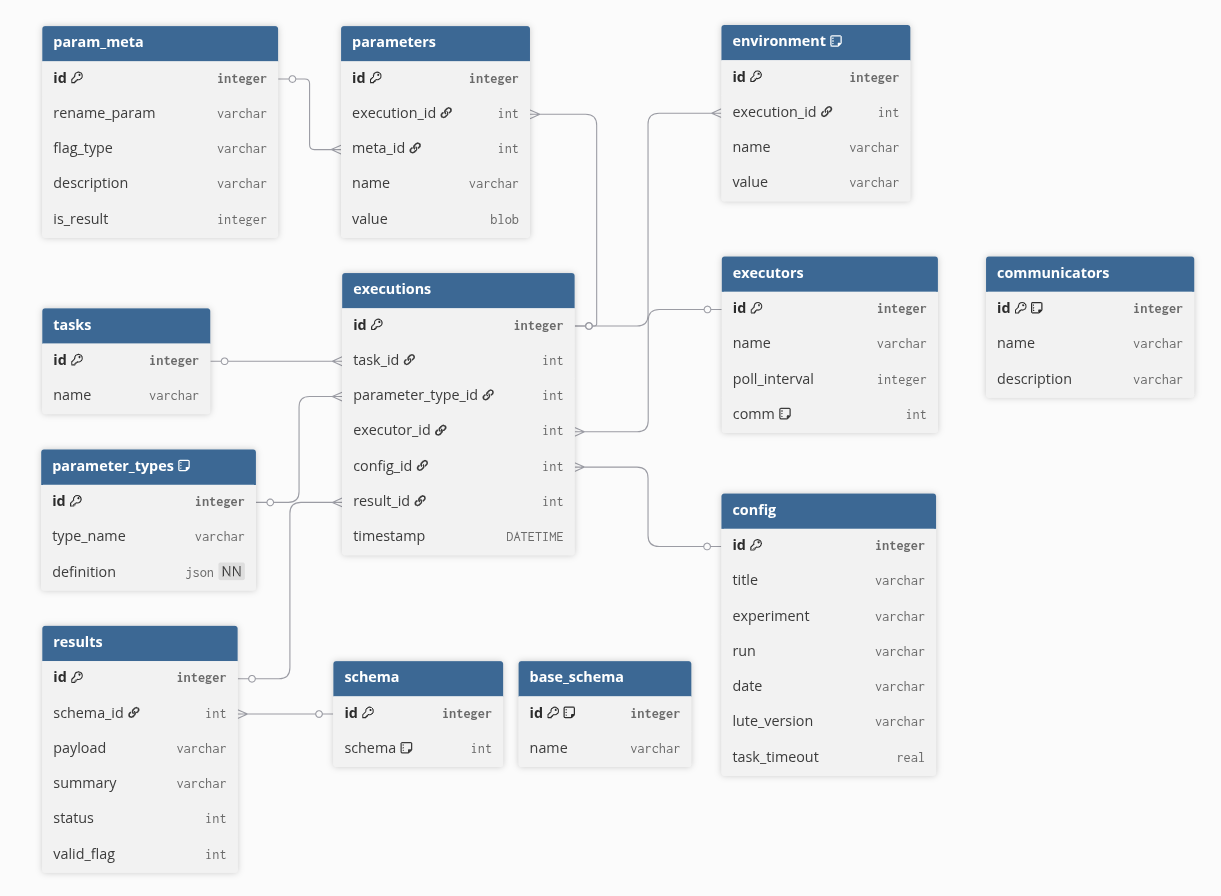
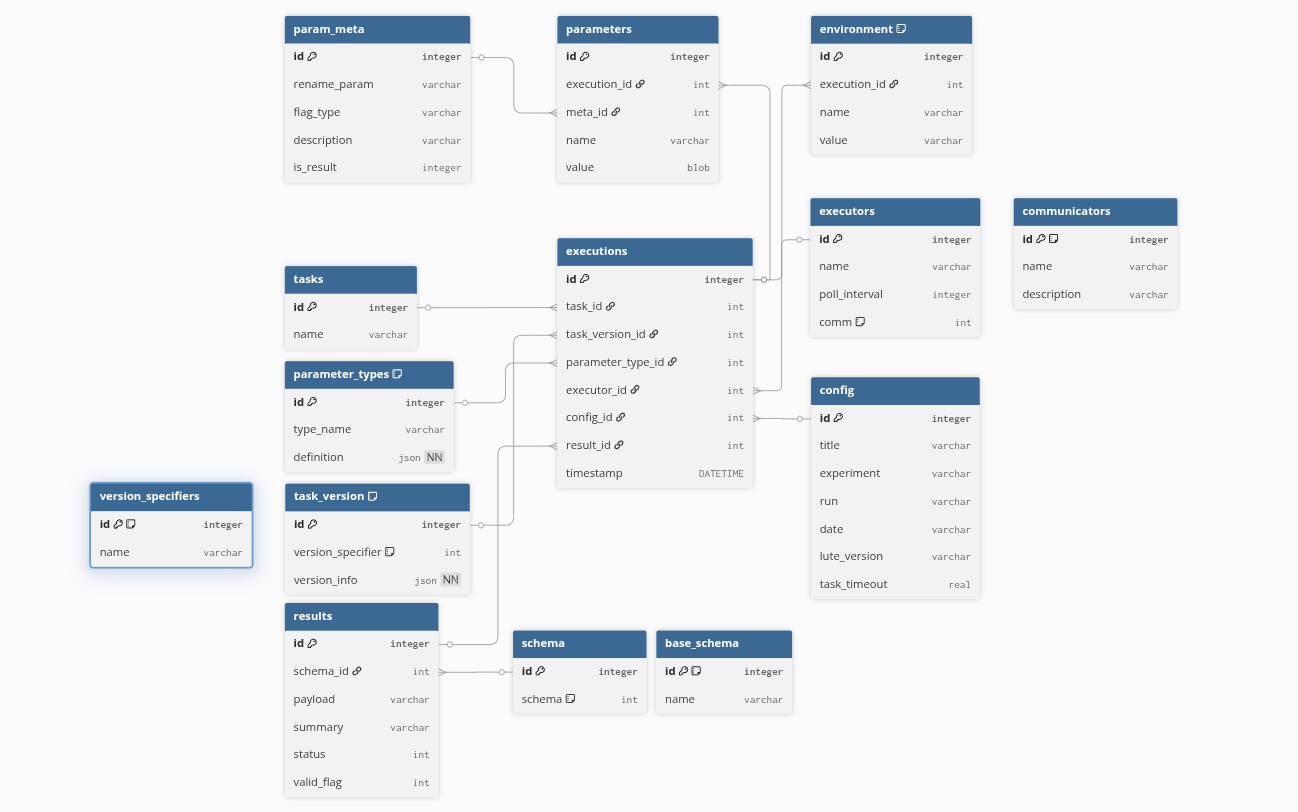
DOC Add some docs on the updated database specification.

diff --git a/docs/design/database_v2.md b/docs/design/database_v2.md
@@ -10,6 +10,8 @@
 - Each database has the following tables:
     - 1 table for `executions`: Each time any **Managed** Task is run a new entry is made in this table.
     - 1 table for `tasks`: Contains the listing of **Managed** Tasks, the `executions` table links here.
+    - 1 table for `task_version`: Contains the version information (if provided) for the various Task's for each corresponding execution.
+    - 1 table for `version_specifiers`: Contains the base enumerators to describe how to extract and interpret the version information in the `task_version` table.
     - 1 table for `executors`: Contains the listing of `Executors`, the `executions` table links here.
     - 1 table for `config`: Contains sets of parameters used for the `AnalysisHeader`, the `executions` table links here.
     - 1 table for `results`: Contains the result fields for each execution. The `executions` table links here.
@@ -30,25 +32,26 @@
 
 The `executions` table contains an entry for each time any **Managed** Task is run. It links all necessary information together.
 
-| id | task_id | parameter_type_id | executor_id | config_id | result_id | timestamp             |
-|:--:|:-------:|:-----------------:|:-----------:|:---------:|:---------:|:---------------------:|
-| 1  | 1       | 1                 | 1           | 1         | 1         | "YYYY-MM-DD HH:MM:SS" |
-|    |         |                   |             |           |           |                       |
+| id | task_id | task_version_id | parameter_type_id | executor_id | config_id | result_id | timestamp             |
+|:--:|:-------:|:---------------:|:-----------------:|:-----------:|:---------:|:---------:|-----------------------|
+| 1  | 1       | 1               | 1                 | 1           | 1         | 1         | "YYYY-MM-DD HH:MM:SS" |
+|    |         |                 |                   |             |           |           |                       |
 
 Each of the `xyz_id` columns follow the `id`s in the respective tables to allow a complete reconstruction of the `Task`, `TaskParameters`, `Executor`, and results data.
 
 #### Column descriptions
 
-| **Column**          | **Description**                                                                                  |
-|:-------------------:|:------------------------------------------------------------------------------------------------:|
-| `id`                | ID of the execution in this table.                                                               |
-| `task_id`           | Pointer to the entry in the `tasks` table holding the information about the `Task` run.          |
-| `parameter_type_id` | Pointer to the entry in the `parameter_types` table that describes the `TaskParameters` model.   |
-| `executor_id`       | Pointer to the entry in the `executors` table holding the information about the `Executor` used. |
-| `config_id`         | Pointer to the entry in the `config` table holding the `AnalysisHeader` for this execution.      |
-| `result_id`         | Pointer to the entry in the `results` table holding the results for this execution.              |
-| `timestamp`         | Timestamp for the execution.                                                                     |
-|                     |                                                                                                  |
+| **Column**          | **Description**                                                                                               |
+|:-------------------:|:-------------------------------------------------------------------------------------------------------------:|
+| `id`                | ID of the execution in this table.                                                                            |
+| `task_id`           | Pointer to the entry in the `tasks` table holding the information about the `Task` run.                       |
+| `task_version_id`   | Pointer to the entry in the `task_version` table holding the information about the version of the `Task` run. |
+| `parameter_type_id` | Pointer to the entry in the `parameter_types` table that describes the `TaskParameters` model.                |
+| `executor_id`       | Pointer to the entry in the `executors` table holding the information about the `Executor` used.              |
+| `config_id`         | Pointer to the entry in the `config` table holding the `AnalysisHeader` for this execution.                   |
+| `result_id`         | Pointer to the entry in the `results` table holding the results for this execution.                           |
+| `timestamp`         | Timestamp for the execution.                                                                                  |
+|                     |                                                                                                               |
 
 #### Constraints
 
@@ -75,6 +78,70 @@ The `tasks` table holds `Task` names.
 | `id`                | ID of the entry in this table.             |
 | `name`              | Name of the `Task`.                        |
 |                     |                                            |
+
+### `task_version` table
+
+The `task_version` table holds information about the version of the `Task` run for a given execution. As the `Task` code, for certain `Task`s, may change between executions, this allows better reproduction of the total state of the code at the time of the execution.
+
+| id | version_specifier | version_info                                                                    |
+|:--:|:-----------------:|:-------------------------------------------------------------------------------:|
+| 1  | 3                 | "{'version-location': 'path/to/repo', 'git-sha': 'abcd', 'git-diff': 'abcd=='}" |
+|    |                   |                                                                                 |
+
+#### Column descriptions
+
+| **Column**          | **Description**                                                                                                                                 |
+|:-------------------:|:-----------------------------------------------------------------------------------------------------------------------------------------------:|
+| `id`                | ID of the entry in this table.                                                                                                                  |
+| `version_specifier` | This is a bitwise OR of all the ids in the `version_specifiers` table which contribute to interpreting the version information.                 |
+| `version_info`      | A JSON string of serialized version information. Interpretation will depend on the `version_specifier` but may contain some of the items below. |
+|                     |                                                                                                                                                 |
+
+Examples of the `version_info` contents may be (once deserialized):
+
+```py
+version_info = {
+    "version-location": "/path",        # A path to a repository where the version information was extracted
+    "version-diff-args": ["subfolder"], # A list of arguments used to specialize what was included in the git diff
+    "git-diff": "abcdjksa==",           # A compressed and base 64 encoded string for the diff of the repository
+    "git-sha": "abcd",                  # The commit hash that the was checked out (before application of any diff, etc.)
+}
+```
+
+All the ids in the `version_specifiers` table are powers of two, or the value 0.
+
+The `version_specifier` column of the `task_version` table is constrained to be `version_specifier <= SELECT SUM(id) FROM version_specifiers`.
+
+#### Constraints
+- The `version_specifier` entry must be a BITWISE OR of the ids in the `version_specifiers` table. This constraint is setup by separate triggers rather than on table creation.
+
+### `version_specifiers` table
+
+The `version_specifiers` table holds the currently supported `VersionSpecifier` enumerators that can be used to store version information for a `Task`. Each enumerator is atomic, but a `Task` may use a combination of these to fully represent a single "version".
+
+| id | name           |
+|:--:|:--------------:|
+| 0  | "NONE"         |
+| 1  | "LUTE_VERSION" |
+| 2  | "GIT_SHA"      |
+| 4  | "GIT_DIFF"     |
+|    |                |
+
+#### Column descriptions
+
+| **Column** | **Description**                                   |
+|:----------:|:-------------------------------------------------:|
+| `id`       | ID of the entry in this table.                    |
+| `name`     | A string representation for this base schema type |
+|            |                                                   |
+
+The `id` column of this table is constrained to be the value 0 or a power of two: `CHECK (id = 0 OR (id > 0 AND (id & (id - 1)) = 0))`.
+
+#### Constraints
+
+- The name (and id) must be unique.
+- The `id` entry must be a power of 2 as the `task_version` table uses a bitwise OR to indicate implementation of multiple `version_specifiers`.
+
 
 ### `executors` table
 
